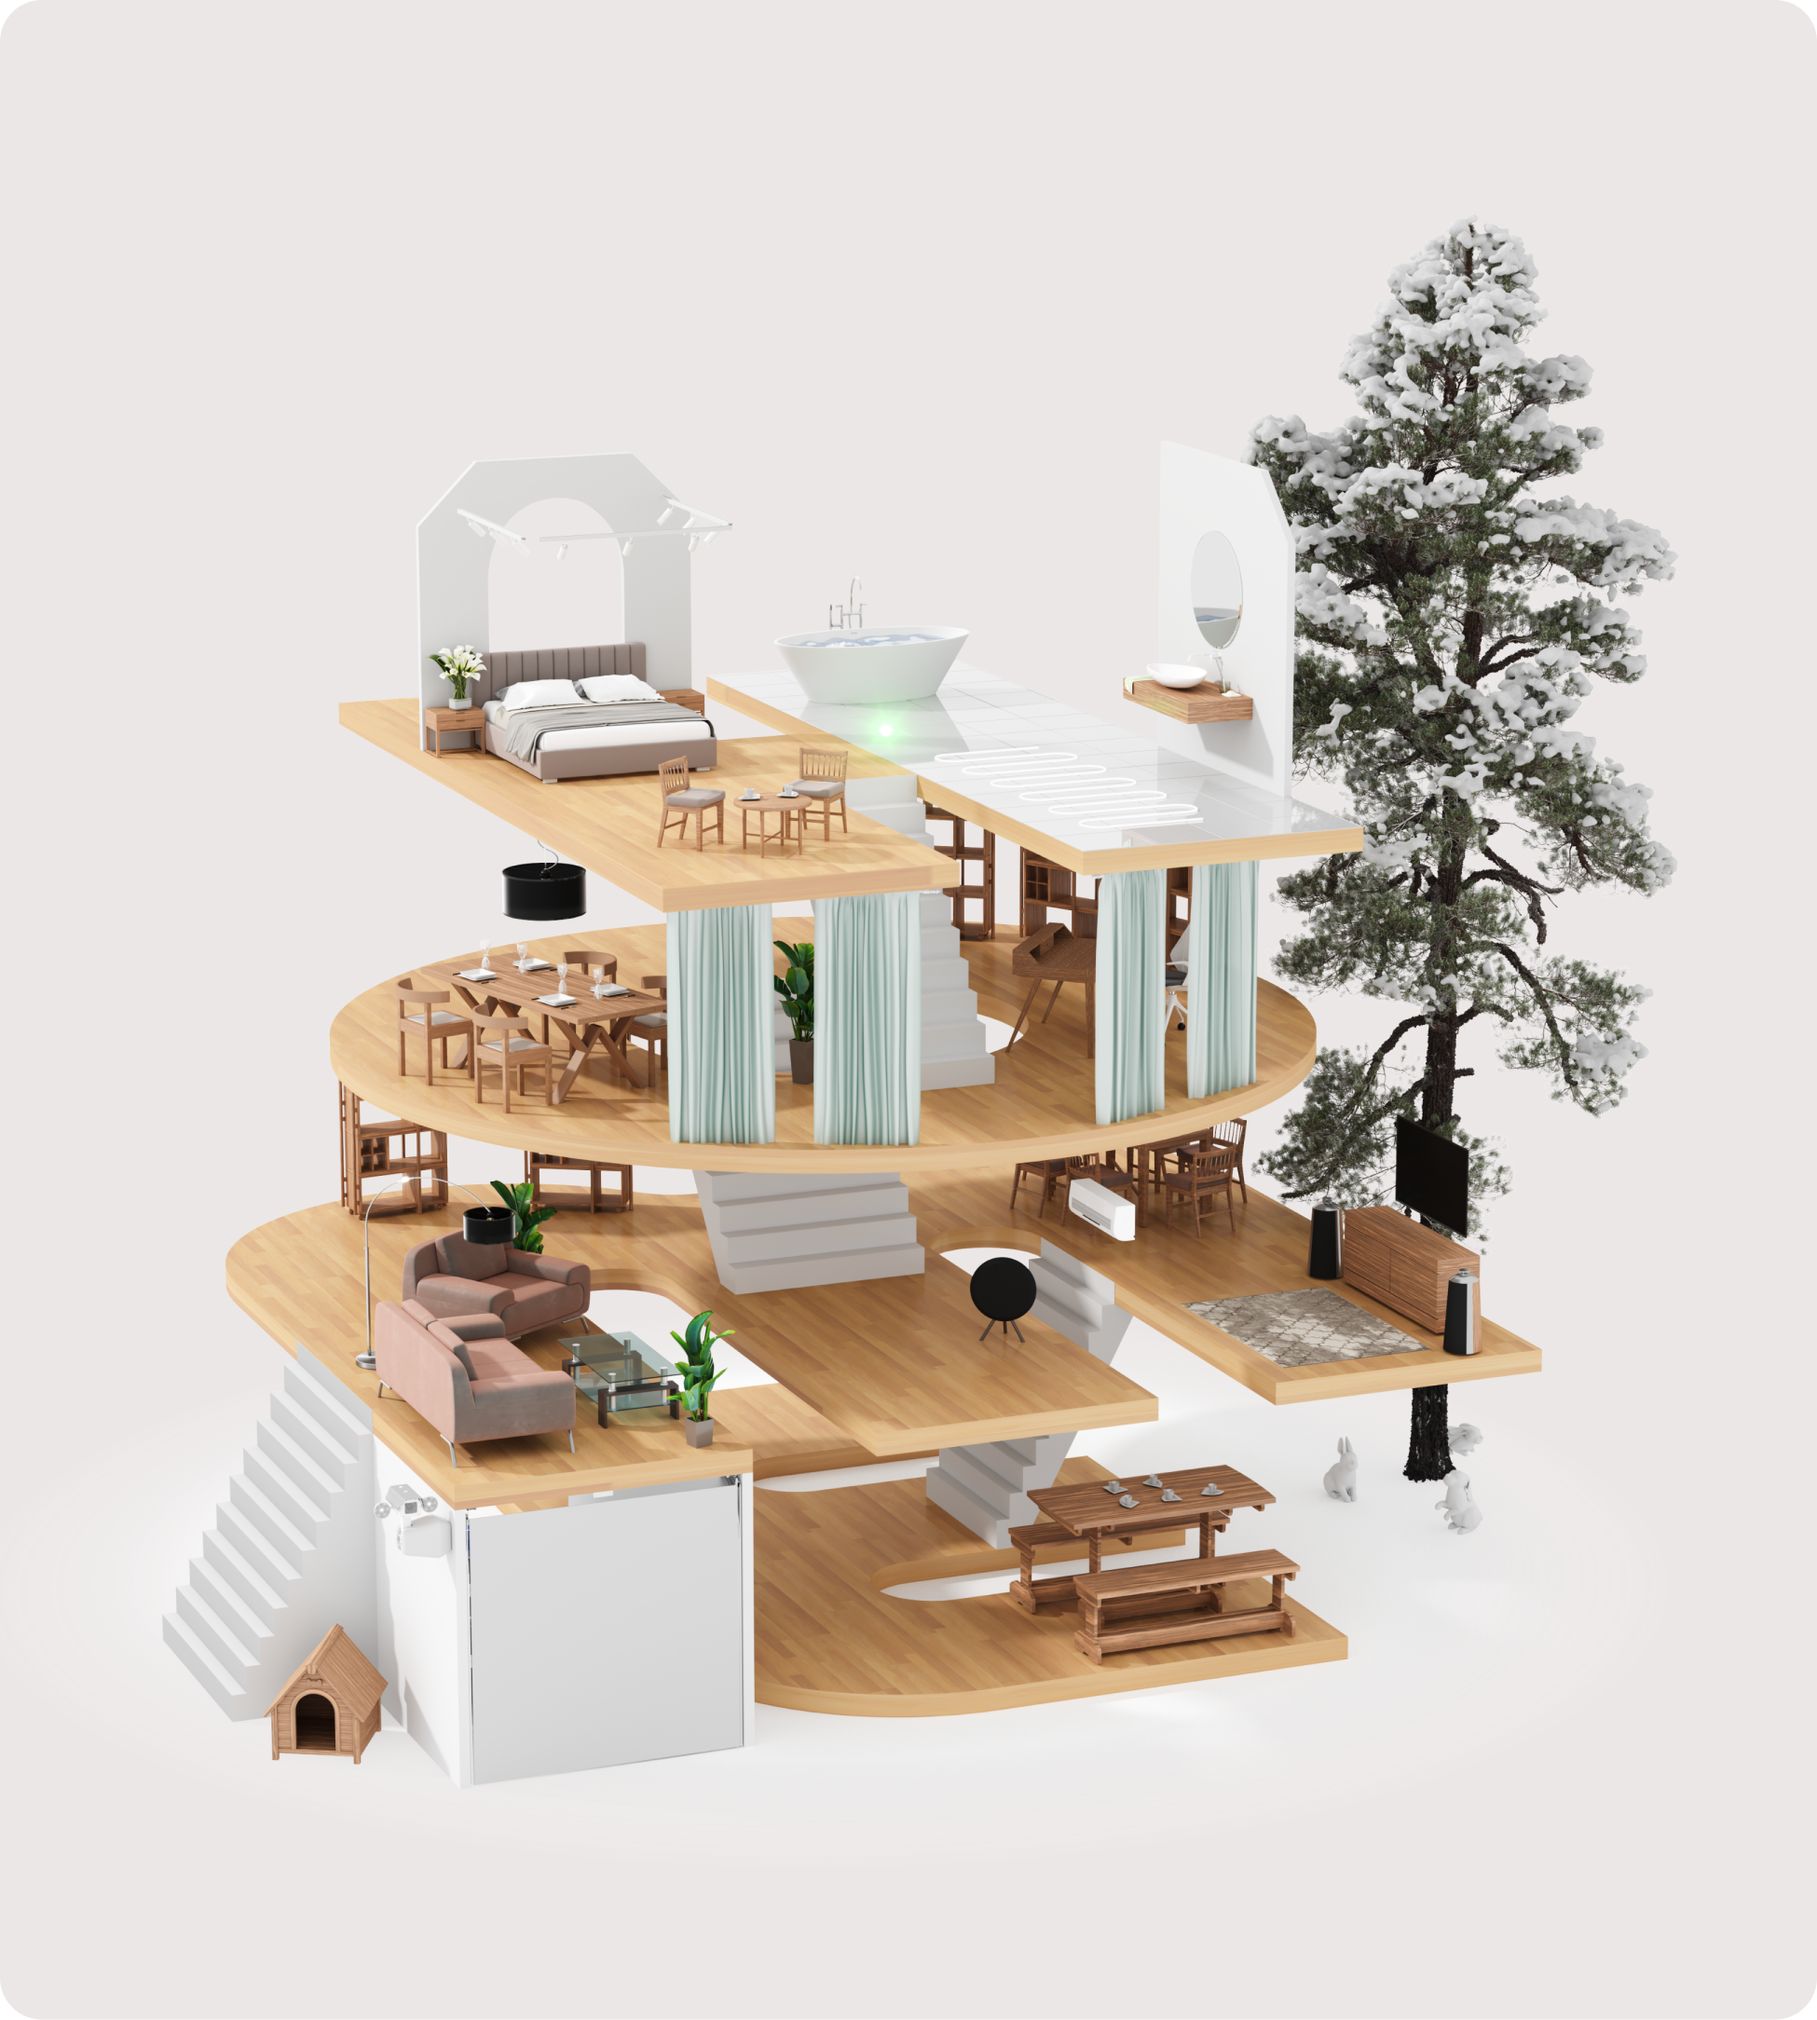
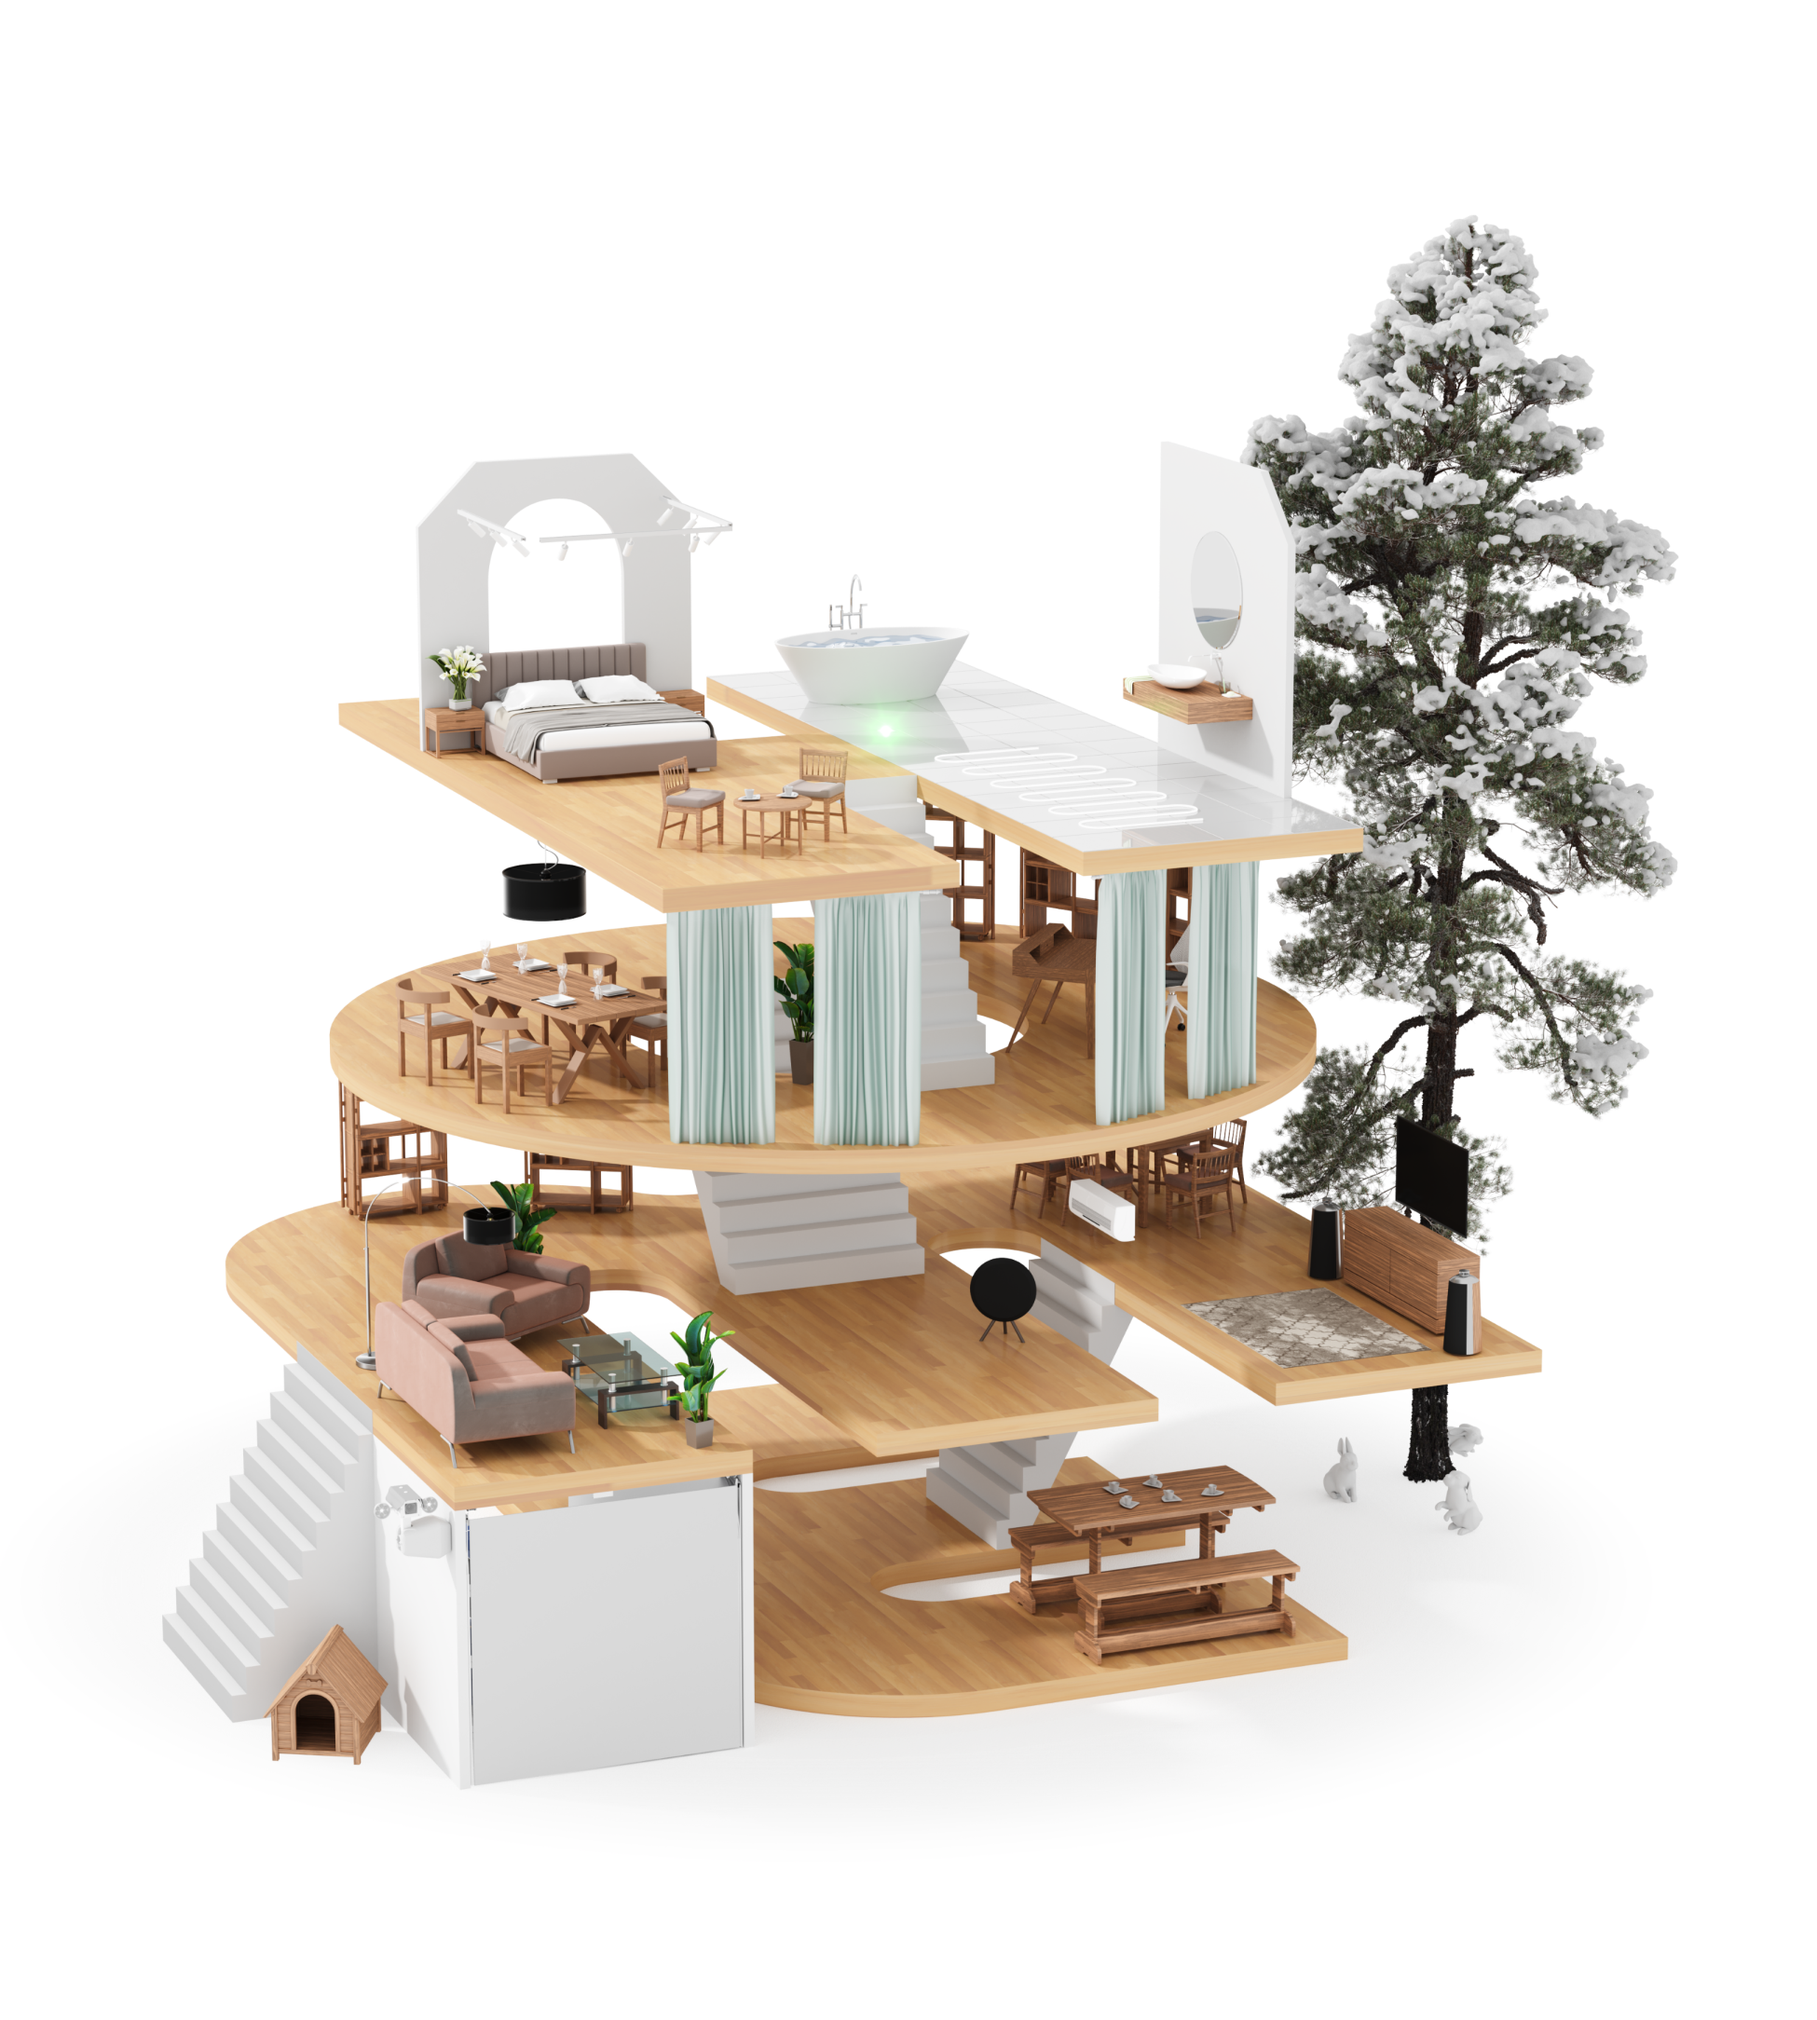
hero-section, checker-info,

diff --git a/src/app/page.js b/src/app/page.js
@@ -1,15 +1,35 @@
+import Image from 'next/image';
+
+import { CardChecker } from '@/components/CardChecker/CardChecker';
+
+import { PriceButton } from '@/UI/PriceButton/PriceButton';
+
 export default function Home() {
 	return (
-		<>
-			<div id='home' className='h-[2000px] bg-lime-500'>
-				Hello
+		<section id='functionality' className='relative mt-3 pt-16'>
+			<div className='flex flex-col items-center gap-8'>
+				<div className='flex flex-col items-center gap-3'>
+					<h1 className='w-auto text-center text-5xl font-bold lg:text-[68px] lg:leading-[66px]'>
+						Умный дом
+						<br /> под ключ
+					</h1>
+					<p className='text-center text-base'>
+						российский производитель
+						<br /> современной электрики
+					</p>
+					{/* <CardChecker /> */}
+				</div>
+				<PriceButton>Расчитать стоймость</PriceButton>
 			</div>
-			<div id='equipment' className='h-[2000px] bg-mainOrange'>
-				<h1>HELLO</h1>
+			<div className='-z-10 w-full sm:h-[500px] lg:h-[800px] xl:h-[1000px]'>
+				<Image
+					src='/home/home.png'
+					className='-z-10 sm:translate-y-8 lg:translate-y-4 xl:-translate-y-6'
+					alt='home'
+					fill
+				/>
 			</div>
-			<div id='price' className='h-[2000px] bg-mainGray'>
-				<h1>HELLO</h1>
-			</div>
-		</>
+			<div className='absolute top-0 -z-20 h-[95%] w-full bg-[#EBE7E6]' />
+		</section>
 	);
 }

diff --git a/src/components/CardChecker/CardChecker.jsx b/src/components/CardChecker/CardChecker.jsx
@@ -1,0 +1,35 @@
+'use client';
+
+import { useState } from 'react';
+
+import {
+	Popover,
+	PopoverBody,
+	PopoverContent,
+	PopoverTrigger,
+} from '@/components/chakraUI/proxy/proxyChakra';
+
+import { Checker } from '@/UI/Checker/Checker';
+
+export const CardChecker = () => {
+	const [isOpen, setIsOpen] = useState(false);
+
+	console.log(isOpen);
+
+	return (
+		<>
+			<Popover isOpen={isOpen}>
+				<PopoverTrigger key={Checker}>
+					<button>
+						<Checker checked={setIsOpen}>Описание</Checker>
+					</button>
+				</PopoverTrigger>
+				<PopoverContent width={'auto'}>
+					<PopoverBody>
+						<p className='text-mainGray'>+7 495 189-69-67</p>
+					</PopoverBody>
+				</PopoverContent>
+			</Popover>
+		</>
+	);
+};

diff --git a/src/app/layout.js b/src/app/layout.js
@@ -1,11 +1,7 @@
-'use client';
-
 import { Montserrat } from 'next/font/google';
-import { useEffect } from 'react';
 
 import Header from '@/components/Header/Header';
 
-// import SmoothScroll from '@/components/SmoothScroll/SmoothScroll';
 import './globals.scss';
 import { Providers } from '@/app/GlobalProviders/Providers';
 
@@ -22,11 +18,7 @@ const RootLayout = ({ children }) => {
 			<body className={montserrat.className}>
 				<Providers>
 					<Header />
-					<main
-						className='container'
-						data-scroll-container
-						data-scroll-speed
-					>
+					<main className='container'>
 						{/* <SmoothScroll> */}
 						{children}
 						{/* </SmoothScroll> */}

diff --git a/src/components/UI/PriceButton/priceButton.module.scss b/src/components/UI/PriceButton/priceButton.module.scss
@@ -1,0 +1,34 @@
+@import '/src/scss/mixin.scss';
+
+.price_button {
+	@apply flex h-[80px] w-[211px] items-center gap-4 rounded-full border border-mainGray bg-mainGray py-[10px] pl-[10px] pr-[22px];
+
+	& > img {
+		@apply z-10;
+
+		@include transition-settings();
+	}
+
+	& > p {
+		@include transition-settings('300', '300');
+	}
+
+	&:hover {
+		& > img {
+			@apply translate-x-[130px] -rotate-45;
+
+			@include transition-settings('75', '300');
+		}
+
+		& > p {
+			@apply -translate-x-14;
+
+			@include transition-settings('200', '[250ms]');
+		}
+	}
+
+	&:active {
+		@extend :hover;
+		@apply border-mainGreen bg-mainGreen;
+	}
+}

diff --git a/src/app/GlobalProviders/Providers.jsx b/src/app/GlobalProviders/Providers.jsx
@@ -2,10 +2,10 @@
 
 import { CacheProvider } from '@chakra-ui/next-js';
 import { ChakraProvider } from '@chakra-ui/react';
-
 // import { theme } from '@/app/GlobalProviders/ChakraTheme/ChakraTheme';
-
 import { extendTheme } from '@chakra-ui/react';
+
+import { switchTheme } from '@/components/UI/Checker/CheckerTheme';
 
 const colors = {
 	main: {
@@ -28,7 +28,11 @@ const sizes = {
 	},
 };
 
-export const theme = extendTheme({ colors, sizes });
+export const theme = extendTheme({
+	colors,
+	sizes,
+	components: { Switch: switchTheme },
+});
 
 export const Providers = ({ children }) => {
 	return (

diff --git a/src/components/UI/Checker/CheckerTheme.jsx b/src/components/UI/Checker/CheckerTheme.jsx
@@ -1,0 +1,22 @@
+import { switchAnatomy } from '@chakra-ui/anatomy';
+import { createMultiStyleConfigHelpers } from '@chakra-ui/react';
+
+const { definePartsStyle, defineMultiStyleConfig } =
+	createMultiStyleConfigHelpers(switchAnatomy.keys);
+
+const baseStyle = definePartsStyle({
+	// define the part you're going to style
+
+	thumb: {
+		bg: '#fff',
+		shadow: 'md',
+	},
+	track: {
+		bg: '#E8E8E8',
+		_checked: {
+			bg: 'main.Green',
+		},
+	},
+});
+
+export const switchTheme = defineMultiStyleConfig({ baseStyle });

diff --git a/src/app/globals.scss b/src/app/globals.scss
@@ -2,33 +2,6 @@
 @tailwind components;
 @tailwind utilities;
 
-* {
-	box-sizing: border-box;
-	padding: 0;
-	margin: 0;
-}
-
-html,
-body {
-	max-width: 100vw;
-	overflow-x: hidden;
-}
-
-body {
-	color: rgb(var(--foreground-rgb));
-	background: linear-gradient(
-			to bottom,
-			transparent,
-			rgb(var(--background-end-rgb))
-		)
-		rgb(var(--background-start-rgb));
-}
-
-a {
-	color: inherit;
-	text-decoration: none;
-}
-
 .background {
 	background-color: #2f2f2f;
 }

diff --git a/src/components/UI/PriceButton/PriceButton.jsx b/src/components/UI/PriceButton/PriceButton.jsx
@@ -1,0 +1,19 @@
+import Image from 'next/image';
+
+import styles from './priceButton.module.scss';
+
+export const PriceButton = ({ children }) => {
+	return (
+		<button className={styles.price_button}>
+			<Image
+				src='/SVG/button-arrow-svg.svg'
+				alt='button'
+				width={59}
+				height={59}
+			/>
+			<p className='text-left text-base font-semibold text-white'>
+				{children}
+			</p>
+		</button>
+	);
+};

diff --git a/src/components/UI/Checker/Checker.jsx b/src/components/UI/Checker/Checker.jsx
@@ -1,0 +1,15 @@
+'use client';
+
+import { Switch } from '@/components/chakraUI/proxy/proxyChakra';
+
+export const Checker = ({ children, checked }) => {
+	return (
+		<Switch
+			className='flex items-center gap-2 rounded-xl bg-white/95 p-3'
+			size='lg'
+			onChange={(e) => checked((prev) => !prev)}
+		>
+			<span className='inline-block text-center'>{children}</span>
+		</Switch>
+	);
+};

diff --git a/src/components/Header/BurgerMenu/Burger.jsx b/src/components/Header/BurgerMenu/Burger.jsx
@@ -112,7 +112,7 @@ export const Burger = ({ navData }) => {
 									reverse={isOpen ? 'false' : 'true'}
 									animate={isOpen ? 'visible' : 'hidden'}
 									exit='exit'
-									onClick={() => setIsOpen(prev => !prev)}
+									onClick={() => setIsOpen((prev) => !prev)}
 								>
 									<NavLink item={item} />
 								</motion.li>

diff --git a/src/components/Header/header.module.scss b/src/components/Header/header.module.scss
@@ -31,7 +31,7 @@
 }
 
 .burger {
-	@apply container absolute -top-10 left-0  z-50 min-h-screen w-screen bg-white px-[10px] pt-10 lg:px-5;
+	@apply container absolute -top-10 left-0 z-50 h-full  min-h-screen w-full  bg-white px-[10px] pt-10 lg:px-5;
 
 	&_header {
 		@include flex-basic('row', '2', 'justify-between') {

diff --git a/src/components/chakraUI/proxy/proxyChakra.js b/src/components/chakraUI/proxy/proxyChakra.js
@@ -7,6 +7,7 @@ import {
 	PopoverBody,
 	PopoverContent,
 	PopoverTrigger,
+	Switch,
 } from '@chakra-ui/react';
 
 export {
@@ -18,4 +19,5 @@ export {
 	PopoverBody,
 	PopoverContent,
 	PopoverTrigger,
+	Switch,
 };
